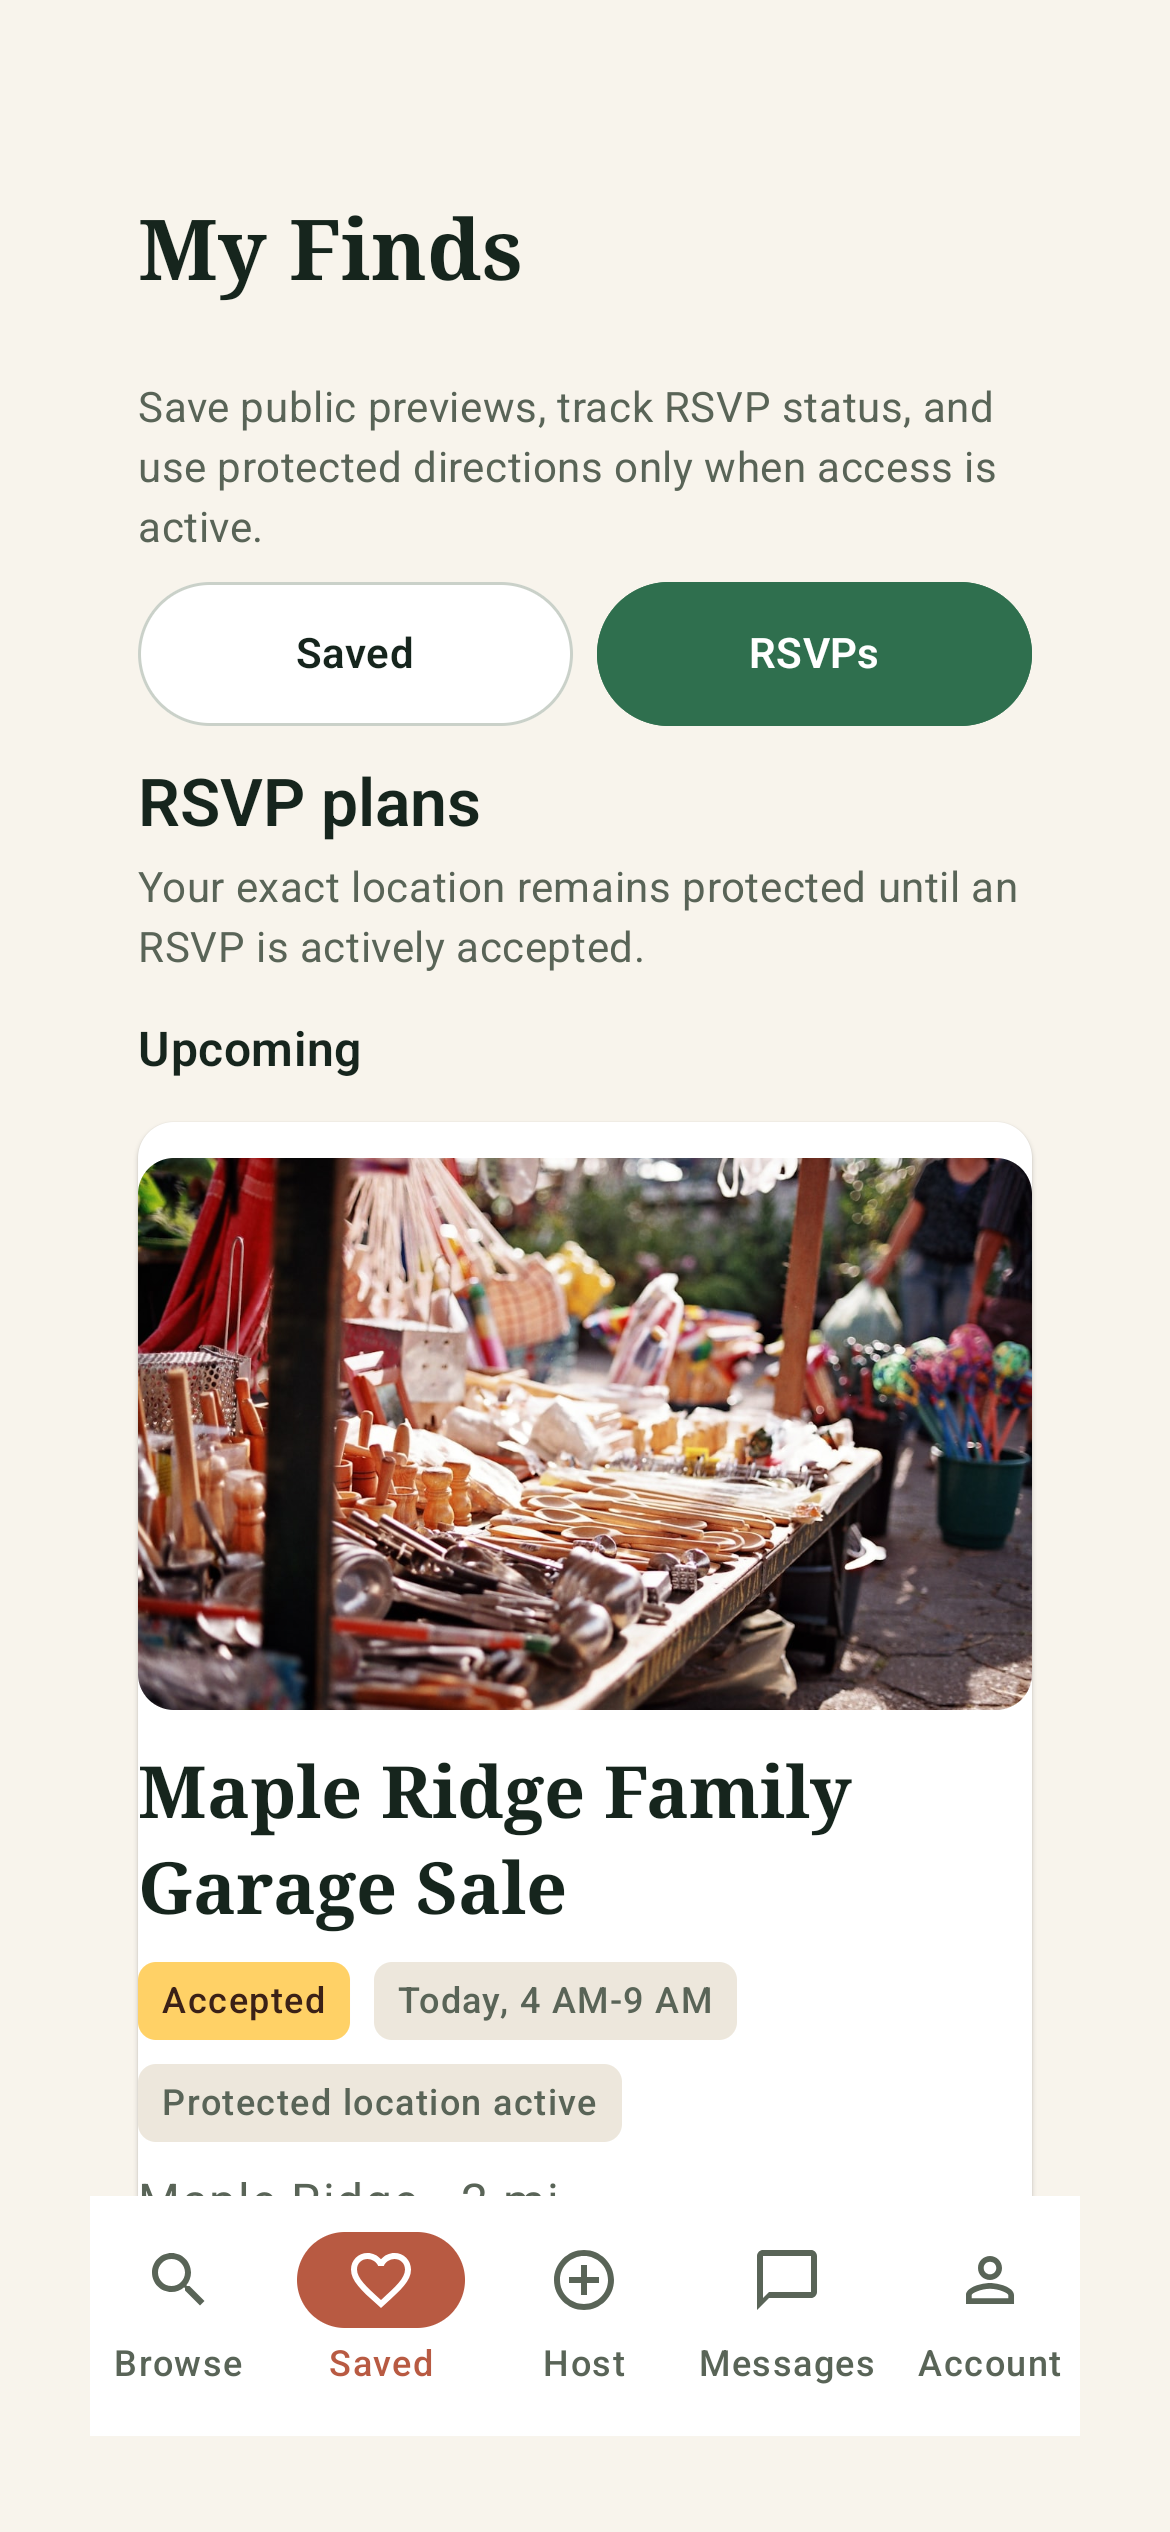
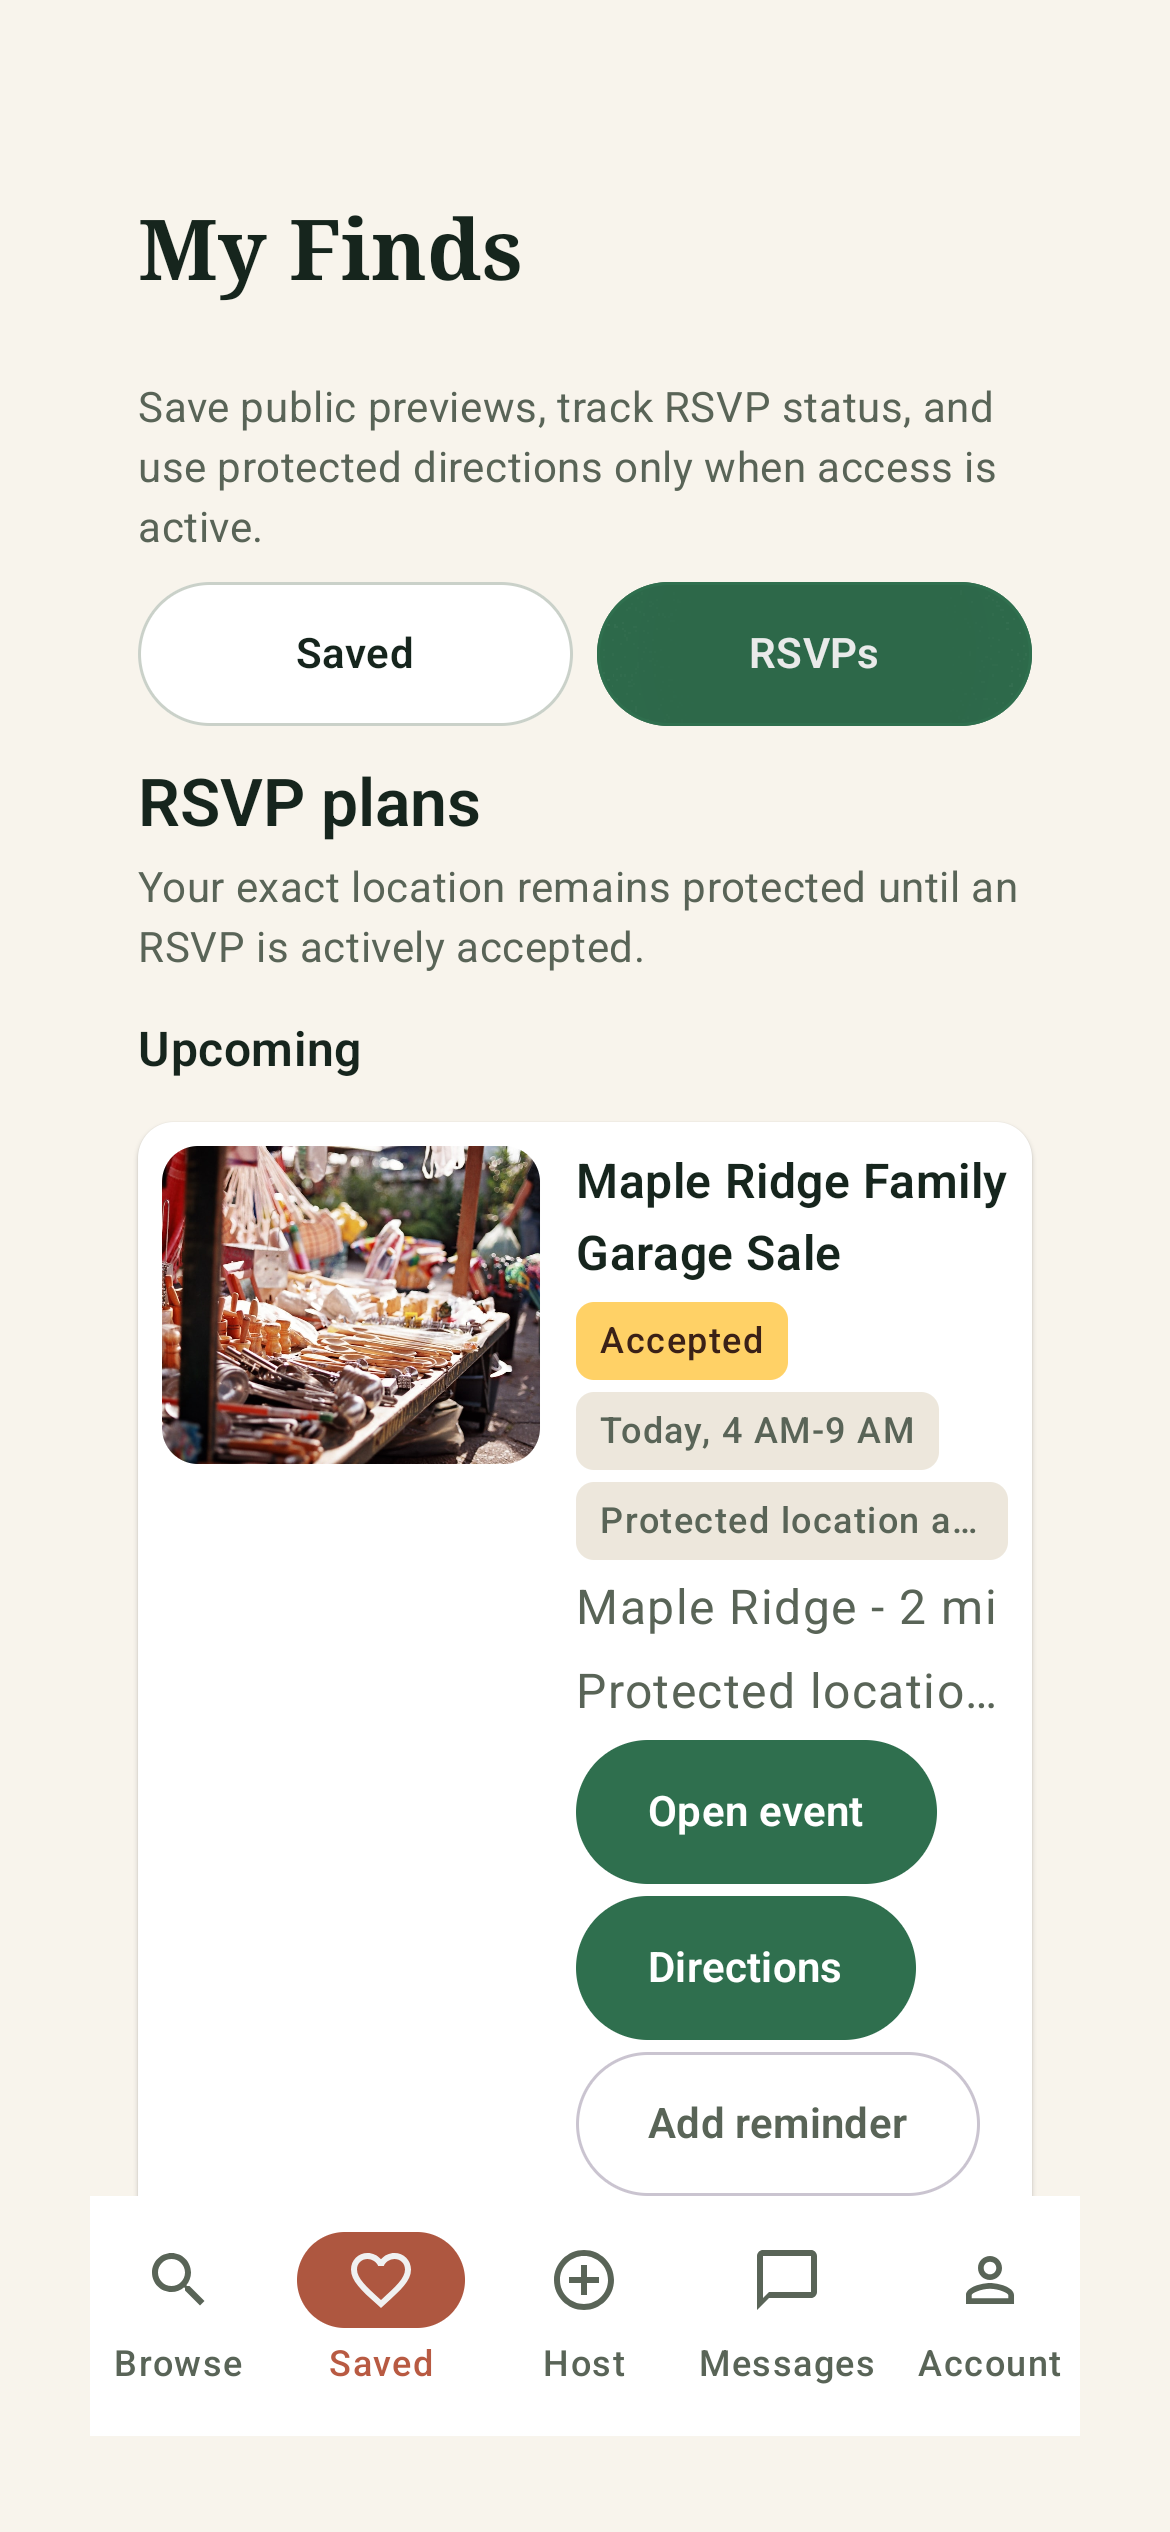
Fix compact My Finds event cards

Changed region(s): [[0.0923, 0.4368, 0.8923, 0.8736]]

diff --git a/app/shared/src/commonMain/kotlin/com/naslabs/yardscape/ui/MyFindsScreen.kt b/app/shared/src/commonMain/kotlin/com/naslabs/yardscape/ui/MyFindsScreen.kt
@@ -228,7 +228,7 @@ private fun MyFindsRsvpRow(
     },
     layout = layout,
 ) {
-    if (ShopperRsvpAction.Directions in item.visibleActions) {
+    if (layout == MyFindsWorkspaceLayout.Expanded && ShopperRsvpAction.Directions in item.visibleActions) {
         PrivacyNote(
             "Protected location is available for this active accepted RSVP.",
             modifier = Modifier.yardScapeStatusAnnouncement(YardScapeStatusMessageKind.Success),
@@ -293,15 +293,22 @@ private fun MyFindsEventRow(
                     locationAccessLabel,
                     description,
                     actions,
-                    Modifier.weight(1.2f),
+                    modifier = Modifier.weight(1.2f),
                 )
             }
         } else {
-            Column(
-                modifier = Modifier.padding(vertical = YardScapeDesign.spacing.medium),
-                verticalArrangement = Arrangement.spacedBy(YardScapeDesign.spacing.medium),
+            Row(
+                modifier = Modifier
+                    .fillMaxWidth()
+                    .padding(YardScapeDesign.spacing.small),
+                horizontalArrangement = Arrangement.spacedBy(YardScapeDesign.spacing.medium),
+                verticalAlignment = Alignment.Top,
             ) {
-                ShopperEventArtwork(ShopperEventArtworkPresentation(eventId, photoReference), height = 184.dp)
+                ShopperEventArtwork(
+                    presentation = ShopperEventArtworkPresentation(eventId, photoReference),
+                    modifier = Modifier.width(126.dp),
+                    height = 106.dp,
+                )
                 MyFindsEventDetails(
                     title,
                     dateLabel,
@@ -310,6 +317,8 @@ private fun MyFindsEventRow(
                     locationAccessLabel,
                     description,
                     actions,
+                    compact = true,
+                    modifier = Modifier.weight(1f),
                 )
             }
         }
@@ -326,23 +335,35 @@ private fun MyFindsEventDetails(
     locationAccessLabel: String,
     description: String,
     actions: @Composable () -> Unit,
+    compact: Boolean = false,
     modifier: Modifier = Modifier,
 ) {
-    Column(modifier = modifier, verticalArrangement = Arrangement.spacedBy(YardScapeDesign.spacing.small)) {
-        Text(title, style = MaterialTheme.typography.headlineSmall, maxLines = 2, overflow = TextOverflow.Ellipsis)
+    val itemSpacing = if (compact) 4.dp else YardScapeDesign.spacing.small
+    Column(modifier = modifier, verticalArrangement = Arrangement.spacedBy(itemSpacing)) {
+        Text(
+            title,
+            style = if (compact) MaterialTheme.typography.titleMedium else MaterialTheme.typography.headlineSmall,
+            maxLines = 2,
+            overflow = TextOverflow.Ellipsis,
+        )
         FlowRow(
-            horizontalArrangement = Arrangement.spacedBy(YardScapeDesign.spacing.small),
-            verticalArrangement = Arrangement.spacedBy(YardScapeDesign.spacing.small),
+            horizontalArrangement = Arrangement.spacedBy(itemSpacing),
+            verticalArrangement = Arrangement.spacedBy(itemSpacing),
         ) {
             StatusLabel(statusLabel)
             InfoChip(dateLabel)
             InfoChip(locationAccessLabel)
         }
         Text(locationLabel, color = MaterialTheme.colorScheme.onSurfaceVariant, maxLines = 1, overflow = TextOverflow.Ellipsis)
-        Text(description, color = MaterialTheme.colorScheme.onSurfaceVariant, maxLines = 2, overflow = TextOverflow.Ellipsis)
+        Text(
+            description,
+            color = MaterialTheme.colorScheme.onSurfaceVariant,
+            maxLines = if (compact) 1 else 2,
+            overflow = TextOverflow.Ellipsis,
+        )
         FlowRow(
-            horizontalArrangement = Arrangement.spacedBy(YardScapeDesign.spacing.small),
-            verticalArrangement = Arrangement.spacedBy(YardScapeDesign.spacing.small),
+            horizontalArrangement = Arrangement.spacedBy(itemSpacing),
+            verticalArrangement = Arrangement.spacedBy(itemSpacing),
         ) { actions() }
     }
 }

diff --git a/app/androidApp/src/androidTest/kotlin/com/naslabs/yardscape/MarketplaceResponsiveTest.kt b/app/androidApp/src/androidTest/kotlin/com/naslabs/yardscape/MarketplaceResponsiveTest.kt
@@ -98,12 +98,15 @@ class MarketplaceResponsiveTest {
         composeRule.onNodeWithTag(YardScapeTestTags.RsvpScreen)
             .performScrollToNode(hasTestTag(YardScapeTestTags.RsvpConfirmAction))
         composeRule.onNodeWithTag(YardScapeTestTags.RsvpConfirmAction)
-            .assertIsDisplayed().assertHeightIsAtLeast(48.dp)
+            .assertIsDisplayed().assertHeightIsAtLeast(48.dp).performClick()
 
         composeRule.onNodeWithTag(
             YardScapeTestTags.primaryDestination(YardScapePrimaryDestination.MyFinds),
         ).performClick()
         composeRule.onNodeWithText("RSVPs").assertHeightIsAtLeast(48.dp).performClick()
+        composeRule.onNodeWithContentDescription("Table filled with second-hand kitchenware and toys")
+            .performScrollTo()
+            .assertWidthIsEqualTo(126.dp)
         composeRule.onNodeWithContentDescription("Cancel RSVP")
             .performScrollTo()
             .assertHeightIsAtLeast(48.dp)

diff --git a/design-qa.md b/design-qa.md
@@ -43,7 +43,7 @@ final result: passed
 - Compact captures: `91-android-detail-editorial.png`, `91-android-rsvp-protected.png`, `91-android-reveal-protected.png`, `91-android-safety-report.png`, and `91-android-my-finds-rsvps.png`
 - Viewport: Android 390 × 844 dp, light theme, captured through the Android Compose workflow smoke harness at 3× density.
 
-Visual inspection found no P0-P2 issue. Detail now keeps photography, public status, title, and concise supporting copy together in the first card. RSVP uses a focused mint card and separate privacy surface; the authorized reveal is visually distinct and the seeded exact address appears only there. Safety uses calm white form groups with neutral reason choices, while destructive actions remain deferred to their dedicated hierarchy. My Finds keeps the same photo-first card grammar and visibly distinguishes an active protected RSVP from a public-only card.
+Visual inspection found no P0-P2 issue. Detail now keeps photography, public status, title, and concise supporting copy together in the first card. RSVP uses a focused mint card and separate privacy surface; the authorized reveal is visually distinct and the seeded exact address appears only there. Safety uses calm white form groups with neutral reason choices, while destructive actions remain deferred to their dedicated hierarchy. My Finds now uses the approved compact Browse-like row: a fixed photo on the left, concise metadata and actions on the right, and distinct protected-location status without exposing the address.
 
 Privacy and accessibility review: public Detail and My Finds surfaces show public/approximate language only. The address and directions action are still absent before acceptance and after revocation, as exercised by the focused Android smoke test. Shared target helpers and editorial segments retain 48 dp targets, and new success/closed-access state panels use polite live-region semantics.
 

diff --git a/.superpowers/sdd/2026-08-31-shopper-visual-refresh/task-1-report.md b/.superpowers/sdd/2026-08-31-shopper-visual-refresh/task-1-report.md
@@ -31,6 +31,10 @@ Captured and inspected 390 x 844 dp Android workflow evidence at 3x density:
 
 The final visual inspection found no P0-P2 issues. `design-qa.md` records the passed result.
 
+### Follow-up P1 correction
+
+Review found that compact My Finds cards were still vertically stacked. The compact treatment now uses the approved Browse-like horizontal row with a fixed 126 dp photo, concise right-column metadata/actions, and no redundant protected-location panel. The expanded layout remains unchanged. The focused Android responsive workflow asserts the fixed compact artwork width, and `91-android-my-finds-rsvps.png` was recaptured and visually inspected at 390 x 844 dp.
+
 ## Privacy and accessibility review
 
 Public Detail and My Finds surfaces retain only public or approximate location language. Exact address and directions content remain in the existing authorized reveal branch and are absent before acceptance and after revocation; the Android smoke test verifies both boundaries. New protected and access-state surfaces provide explicit status semantics with polite live-region announcements, and existing 48 dp target helpers remain in use.
